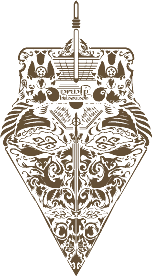
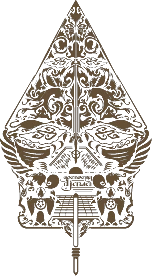
feat: finalize design

diff --git a/src/components/CoupleSection.vue b/src/components/CoupleSection.vue
@@ -7,22 +7,22 @@
       <div class="salam">Assalamu’alaikum Warahmatullahi Wabarakatuh</div>
       <p>Dengan memohon rahmat dan ridho Allah SWT, kami bermaksud menyelenggarakan pernikahan putra-putri kami</p>
 
-      <div class="couple-card groom">
-        <div class="eyebrow role">Mempelai Pria</div>
-        <h2 class="disp">Rizaldi Al Karim</h2>
-        <div class="parents">Putra keempat dari<br />Bapak Ismono &amp; Ibu Nurul C.</div>
+      <div class="couple-card bride">
+        <div class="eyebrow role">Mempelai Wanita</div>
+        <h2 class="disp">Alyajilan Madani</h2>
+        <div class="parents">Putri pertama dari<br />Bapak Mamurrie &amp; Ibu Hanik M.</div>
       </div>
-
+      
       <div class="ampersand">
         <div class="line"></div>
         <div class="script mark">&amp;</div>
         <div class="line"></div>
       </div>
-
+      
       <div class="couple-card">
-        <div class="eyebrow role">Mempelai Wanita</div>
-        <h2 class="disp">Alyajilan Madani</h2>
-        <div class="parents">Putri pertama dari<br />Bapak Mamurrie &amp; Ibu Hanik M.</div>
+        <div class="eyebrow role">Mempelai Pria</div>
+        <h2 class="disp">Rizaldi Al Karim</h2>
+        <div class="parents">Putra keempat dari<br />Bapak Ismono &amp; Ibu Nurul C.</div>
       </div>
     </div>
   </section>
@@ -66,6 +66,10 @@ p {
 }
 
 .groom {
+  margin-top: 44px;
+}
+
+.bride {
   margin-top: 44px;
 }
 

diff --git a/src/components/CoverSection.vue b/src/components/CoverSection.vue
@@ -14,16 +14,16 @@ defineProps({
     <img class="flora flower float" src="/images/flower-small.webp" alt="" />
 
     <div class="inner cover-copy">
-      <img class="ornament rise" src="/images/ornament.webp" alt="" />
+      <img class="ornament rise" src="/images/ornament.webp" style="transform: rotateX(180deg);" alt="" />
       <div class="kicker rise">Pernikahan</div>
-      <h1 class="disp rise2">Rizal<br />&amp; Alya</h1>
+      <h1 class="disp rise2">Alya <br />&amp; Rizal</h1>
       <div class="date rise3">Sabtu, 17 Oktober 2026</div>
-      <div class="guest rise3">
+      <!-- <div class="guest rise3">
         <div>Kepada</div>
         <div>Yth. Bapak/Ibu/Saudara/i</div>
         <div class="disp guest-name">{{ guest }}</div>
-      </div>
-      <a href="#undangan" class="btn rise3">
+      </div> -->
+      <a href="#undangan" class="btn rise3" style="margin-top: 30px;">
         <svg width="18" height="18" viewBox="0 0 24 24" fill="none" stroke="currentColor" stroke-width="1.8" stroke-linecap="round" stroke-linejoin="round" aria-hidden="true">
           <rect x="3" y="5" width="18" height="14" rx="2" />
           <path d="m3 7 9 6 9-6" />

diff --git a/src/App.vue b/src/App.vue
@@ -7,6 +7,7 @@ import PhotoSection from './components/PhotoSection.vue'
 import EventSection from './components/EventSection.vue'
 import LocationSection from './components/LocationSection.vue'
 import ClosingSection from './components/ClosingSection.vue'
+import FooterSection from './components/FooterSection.vue'
 
 const guest = useGuestName()
 </script>
@@ -20,5 +21,6 @@ const guest = useGuestName()
     <EventSection />
     <LocationSection />
     <ClosingSection />
+    <FooterSection />
   </main>
 </template>

diff --git a/src/components/EventSection.vue b/src/components/EventSection.vue
@@ -18,7 +18,7 @@ const calendarUrl =
       <p>Yang InsyaAllah akan dilaksanakan pada:</p>
 
       <div class="event-card">
-        <img class="ornament" src="/images/ornament.webp" alt="" style="transform: rotateX(180deg);" />
+        <img class="ornament" src="/images/ornament.webp" alt=""/>
         <div class="eyebrow kind">Akad &amp; Resepsi</div>
         <div class="disp day">Sabtu, 17 Oktober 2026</div>
         <div class="time">10.00 – 12.00 WIB</div>

diff --git a/src/components/ClosingSection.vue b/src/components/ClosingSection.vue
@@ -9,7 +9,8 @@
       </p>
       <div class="salam">Wassalamu’alaikum Warahmatullahi Wabarakatuh</div>
       <div class="signoff">Kami yang berbahagia,</div>
-      <div class="disp names">Rizal &amp; Alya</div>
+      <div class="disp names">Alya &amp; Rizal </div>
+      <div class="names" style="font-size: 24px; margin-top: 24px;">#spesiALYAbuatRIZAL</div>
     </div>
 
     <div class="stage">

diff --git a/index.html b/index.html
@@ -3,7 +3,7 @@
   <head>
     <meta charset="UTF-8" />
     <meta name="viewport" content="width=device-width, initial-scale=1" />
-    <title>Undangan Pernikahan Rizal &amp; Alya</title>
+    <title>Undangan Pernikahan  Alya &amp; Rizal</title>
     <link rel="preconnect" href="https://fonts.googleapis.com" />
     <link rel="preconnect" href="https://fonts.gstatic.com" crossorigin />
     <link

diff --git a/src/components/PhotoSection.vue b/src/components/PhotoSection.vue
@@ -5,7 +5,7 @@
     <img class="flora corner" src="/images/corner-plant.webp" alt="" />
 
     <div class="inner photo-copy">
-      <div class="script title">Rizal &amp; Alya</div>
+      <div class="script title">Alya &amp; Rizal </div>
       <div class="eyebrow label">Momen Bahagia</div>
 
       <figure class="map-frame portrait">

diff --git a/src/components/FooterSection.vue b/src/components/FooterSection.vue
@@ -1,0 +1,14 @@
+<template>
+<div class="footer">
+    Designed By yours truly, Dary
+</div>
+</template>
+
+<style>
+.footer{
+    display: flex;
+    justify-content: center;
+    padding: 10px 0px 20px 0px;
+    font-size: 0.75rem;
+}
+</style>
